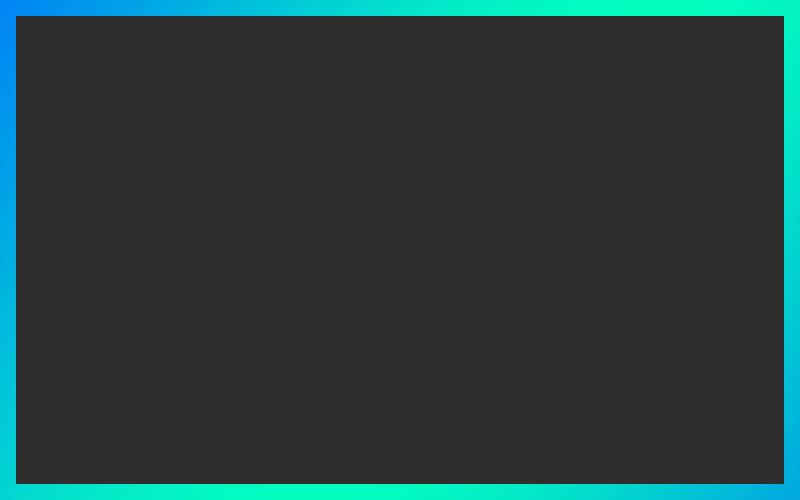
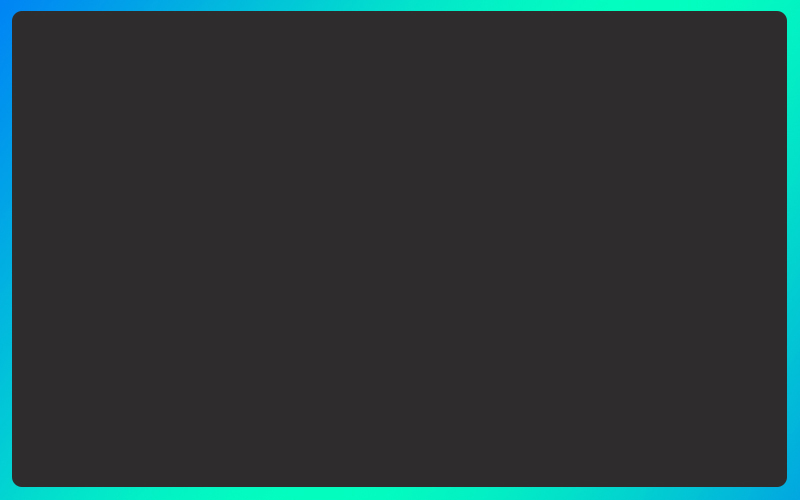
added users_list and diffent background

Changed region(s): [[0.0, 0.03, 0.9688, 0.99], [0.9688, 0.03, 1.0, 0.96], [0.0312, 0.0, 0.9688, 0.03]]

diff --git a/client/client.py b/client/client.py
@@ -19,8 +19,9 @@ class Main:
         Label(self.root, image=img).place(x=0, y=0, relwidth=1, relheight=1)
         self.running = True
         self.messages = []
-        self.frame = Frame(self.root, bg=self.bgcolor, width=700, height=330)
-        threading.Thread(target=lambda: asyncio.run(self.join())).start()
+        self.frame = Frame(self.root, bg=self.bgcolor, width=600, height=330)
+        self.users_list = Listbox(self.root, font=('Consolas', 15, 'bold'), bg=self.bgcolor, fg='white', width=15)
+        threading.Thread(target=lambda:asyncio.run(self.join())).start()
         self.root.mainloop()
 
     def exit(self):
@@ -33,7 +34,8 @@ class Main:
         status = await self.connect()
         con.destroy()
         if status:
-            label = Label(self.root, text='Connected to server', font=('Consolas', 15, 'bold'), bg=self.bgcolor, fg='white')
+            label = Label(self.root, text='Connected to server', font=('Consolas', 15, 'bold'), bg=self.bgcolor,
+                          fg='white')
             label.place(x=300, y=20)
             await asyncio.sleep(1)
             label.destroy()
@@ -48,9 +50,11 @@ class Main:
             username.destroy()
             self.root.unbind('<Return>')
             self.Main()
+
         label = Label(self.root, text='Choose a username', font=('Consolas', 15, 'bold'), bg=self.bgcolor, fg='white')
         label.place(x=310, y=20)
-        username = Entry(self.root, font=('Consolas', 15, 'bold'), bg=self.bgcolor, fg='white', insertbackground='white')
+        username = Entry(self.root, font=('Consolas', 15, 'bold'), bg=self.bgcolor, fg='white',
+                         insertbackground='white')
         username.place(x=300, y=50)
         self.root.bind('<Return>', func=lambda event: send_un())
 
@@ -63,37 +67,39 @@ class Main:
                 self.sock.connect(('localhost', 2288))
                 return True
         except:
-            print('No servers are available')
             return False
 
-    def add_prev_messages(self):
-        for msg in self.prev_msg:
-            for i in self.messages:
-                i['label'].place(x=0, y=i['location'] - 30)
-                i['location'] -= 30
-            self.messages.append(
-                {'label':Label(self.frame, text=msg, font=('Consolas', 15, 'bold'), bg='#4c4c4c', fg='white'),
-                 'location':290})
-            index = len(self.messages) - 1
-            self.messages[index]['label'].place(x=0, y=290)
-
+    def add_messages(self, msg):
+        for i in self.messages:
+            i['label'].place(x=0, y=i['location'] - 30)
+            i['location'] -= 30
+        self.messages.append(
+            {'label':Label(self.frame, text=msg, font=('Consolas', 15, 'bold'), bg=self.bgcolor, fg='white'),
+             'location':280})
+        index = len(self.messages) - 1
+        self.messages[index]['label'].place(x=0, y=280)
 
     def Main(self):
         self.chat_verlabel = Label(text='ALTERA CHAT V.0.4', font=('Consolas', 25, 'bold'), bg=self.bgcolor, fg='white')
         self.chat_verlabel.place(x=25, y=20)
-        self.prev_msg = eval(self.sock.recv(1024).decode('utf-8'))
         self.frame.place(x=40, y=80)
-        self.add_prev_messages()
-        self.message_label = Label(self.root, bg=self.bgcolor, fg='white', text='Message:', font=('Consolas', 15, 'bold'))
+        self.message_label = Label(self.root, bg=self.bgcolor, fg='white', text='Message:',
+                                   font=('Consolas', 15, 'bold'))
         self.message_label.place(x=25, y=420)
         self.msg_input = Text(self.root, bg=self.bgcolor, fg='white', height=1, font=('Consolas', 15, 'bold'),
-                          insertbackground='white', bd=3, width=67)
+                              insertbackground='white', bd=3, width=67)
         self.msg_input.place(x=25, y=450)
-        self.root.bind('<Return>', func=self.sendmsg)
-        recv_thread = threading.Thread(target=lambda: asyncio.run(self.recv()))
-        recv_thread.setDaemon(True)
-        recv_thread.start()
+        self.users_list.place(x=600, y=25)
 
+        self.prev_msg = eval(self.sock.recv(1024).decode('utf-8'))
+        self.users = eval(self.sock.recv(1024).decode('utf-8'))
+        self.users_list.insert(END, 'Users:')
+        for name in self.users:
+            self.users_list.insert(END, name)
+        for msg in self.prev_msg:
+            self.add_messages(msg)
+        self.root.bind('<Return>', func=self.sendmsg)
+        threading.Thread(target=lambda:asyncio.run(self.recv()), daemon=True).start()
 
     def sendmsg(self, event):
         msg = str(self.msg_input.get("1.0", END)).rstrip()
@@ -104,7 +110,6 @@ class Main:
             self.sock.send(msg.encode('utf-8'))
             self.msg_input.delete('1.0', END)
 
-
     async def recv(self):
         while self.running:
             try:
@@ -114,12 +119,7 @@ class Main:
                 if len(self.messages) == 13:
                     self.messages[0]['label'].destroy()
                     self.messages.remove(self.messages[0])
-                for i in self.messages:
-                    i['label'].place(x=0, y=i['location']-30)
-                    i['location'] -= 30
-                self.messages.append({'label': Label(self.frame, text=msg, font=('Consolas', 15, 'bold'), bg='#4c4c4c', fg='white'), 'location': 290})
-                index = len(self.messages)-1
-                self.messages[index]['label'].place(x=0, y=290)
+                self.add_messages(msg)
 
             except:
                 # destroy widgets
@@ -128,7 +128,7 @@ class Main:
                 self.message_label.place(x=-1000, y=-1000)
                 self.msg_input.place(x=-1000, y=-1000)
                 Label(self.root, text='Server connection lost\nplease try again later',
-                      font=('Consolas', 15, 'bold'), bg=self.bgcolor, fg='white').place(x=230, y=25)
+                      font=('Consolas', 15, 'bold'), bg=self.bgcolor, fg='white').place(x=265, y=25)
                 self.running = False
 
 

diff --git a/server/server.py b/server/server.py
@@ -33,43 +33,60 @@ class Main:
         self.index = len(self.clients) - 1
         await asyncio.sleep(0.01)
         s.send(str(self.messages).encode('utf-8'))
-        Thread(target=lambda: asyncio.run(self.client_thread())).start()
-        await self.do_broad_task(username + " has joined the chat")
+        await asyncio.sleep(0.01)
+        users = []
+        for i in self.clients:
+            users.append(i['name'])
+        s.send(str(users).encode('utf-8'))
+        Thread(target=lambda:asyncio.run(self.client_thread()), daemon=True).start()
+        await self.send(username + " has joined the chat")
 
     async def disconnect(self, client):
         name = client["name"]
         self.clients.remove(client)
-        if self.task in asyncio.all_tasks():
-            await asyncio.wait_for(self.task, 100)
-        self.task = asyncio.create_task(self.broadcast(name + " has left the chat"))
-        await self.task
-
-    async def broadcast(self, msg):
-        await self.do_messages_store(msg)
-        if not len(self.clients):
-            print('Main-thread: No one is in the chat not broadcasting message')
-        for client in self.clients:
-            try:
-                client['client'].send(f"{msg}".encode('utf-8'))
-            except:
-                print('Main-thread: user disconnected removing user (broken pipe)')
-                name = client['name']
-                await self.disconnect(client)
-                await self.do_broad_task(name + " has left the chat")
+        await self.send(name + " has left the chat")
 
     async def commands(self, msg, client_data):
-        msg = str(msg)
         if msg.startswith('.'):
-            print('checking messages for commands')
-            if 'change_nick:' in msg:
-                new_nick = msg.replace('.change_nick:', '')
-                await self.do_broad_task(f'{client_data["name"]} changed their nick to {new_nick}')
-                client_data['name'] = new_nick.rstrip()
+            try:
+                args = msg.replace('.', '').split()
+                cmd = args[0]
+                all_args = args[1:]
+                if cmd == 'nick':
+                    new_nick = ' '.join(all_args)
+                    if new_nick.startswith(''):
+                        await self.send('Cant change your nick to that')
+                    else:
+                        await self.send(f'{client_data["name"]} changed their nick to {new_nick}')
+                        client_data['name'] = new_nick
+                else:
+                    raise Exception('Not a valid command')
+            except Exception:
+                await self.send('Error not a valid command')
 
-    async def do_broad_task(self, msg=None):
+    async def send(self, msg, user=None):
+        async def broadcast():
+            await self.do_messages_store(msg)
+            if not len(self.clients):
+                print('Main-thread: No one is in the chat not broadcasting message')
+            for client in self.clients:
+                try:
+                    client['client'].send(f"{msg}".encode('utf-8'))
+                except:
+                    print('Main-thread: user disconnected removing user (broken pipe)')
+                    name = client['name']
+                    await self.disconnect(client)
+                    await self.send(name + " has left the chat")
+        async def send_user():
+            print(';p;')
+
+        if not user:
+            func = broadcast
+        else:
+            func = send_user
         if self.task in asyncio.all_tasks():
             await asyncio.wait_for(self.task, 100)
-        self.task = asyncio.create_task(self.broadcast(msg))
+        self.task = asyncio.create_task(func())
         await self.task
 
     async def do_messages_store(self, msg):
@@ -87,7 +104,7 @@ class Main:
             try:
                 msg = client.recv(1024).decode('utf-8')
                 msg = msg.rstrip()
-                await self.do_broad_task(f'{username}:{msg}')
+                await self.send(f'{username}:{msg}')
                 await self.commands(msg, client_data)
             except:
                 print(f'{username}-thread: Disconnected')
